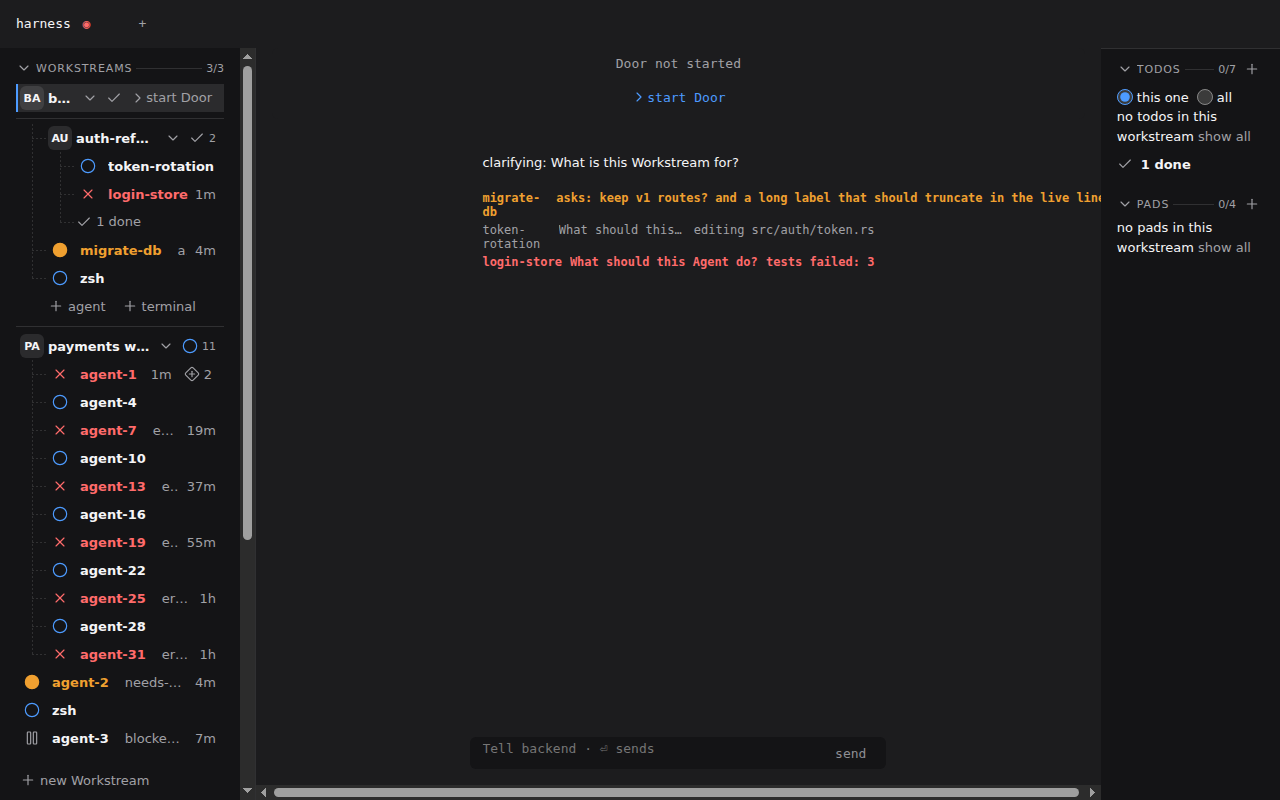
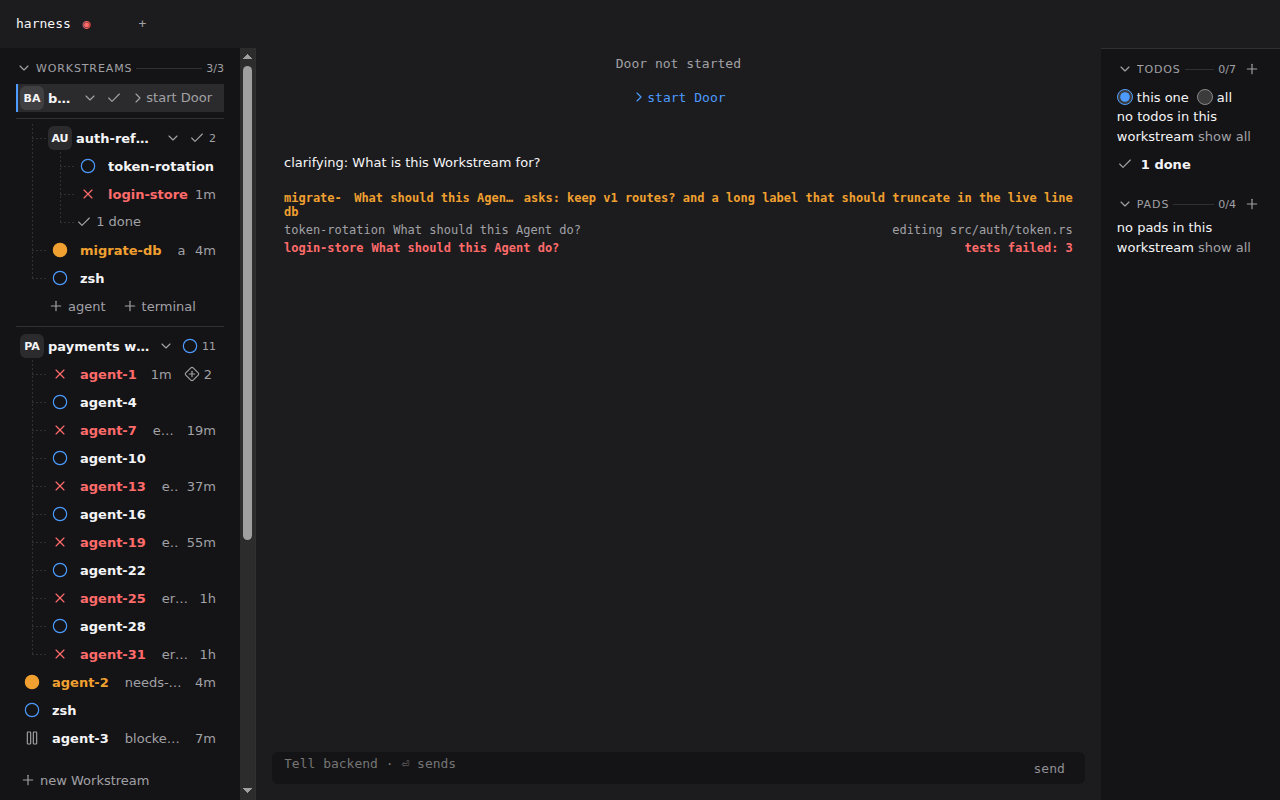
Thread text measure 80 to 120 characters (U366)
Author-Agent: builder-38132715805

Changed region(s): [[0.2188, 0.1875, 0.8438, 0.3438], [0.2188, 0.9375, 0.8438, 1.0]]

diff --git a/apps/desktop/src/testing/u366_measure.test.ts b/apps/desktop/src/testing/u366_measure.test.ts
@@ -1,0 +1,60 @@
+import { afterAll, beforeAll, describe, expect, it, vi } from "vitest";
+import { chromePath, openPage } from "./chromePage";
+import type { ChromePage } from "./chromePage";
+
+/** U366 in a real Chromium: the Thread's column grows past its old 32rem at 1600 px and fills the window at 700 px. */
+
+const found = chromePath();
+
+// A missing browser skips only off CI: on CI the claim must be checked, never silently dropped.
+const run = found || process.env["CI"] ? describe : describe.skip;
+
+let page: ChromePage;
+
+beforeAll(async () => {
+  if (!found) throw new Error("U366 needs a Chrome binary: set CHROME_PATH");
+
+  page = await openPage(found);
+}, 90_000);
+
+afterAll(async () => {
+  await page?.close();
+});
+
+const load = async (width: number, height: number) => {
+  await page.load("/harness.html?seed=thread-report", width, height);
+  await page.until(`() => document.querySelectorAll("[data-message-body]").length > 0 && Boolean(document.querySelector(".thread-composer textarea"))`);
+};
+
+type Read = { column: number; rem: number; scroll: number; client: number; body: number; probe: number };
+
+const READ = `() => {
+  const rem = parseFloat(getComputedStyle(document.documentElement).fontSize);
+  const body = document.querySelector("[data-message-body]");
+  const probe = document.createElement("div");
+  probe.style.cssText = "position:absolute;visibility:hidden;width:120ch;font-family:" + getComputedStyle(body).fontFamily + ";font-size:" + getComputedStyle(body).fontSize;
+  document.body.append(probe);
+  const read = { column: document.querySelector(".thread-column").getBoundingClientRect().width, rem, scroll: document.documentElement.scrollWidth, client: document.documentElement.clientWidth, body: body.getBoundingClientRect().width, probe: probe.getBoundingClientRect().width };
+  probe.remove();
+  return read;
+}`;
+
+run("u366 the Thread keeps a 120-character measure", () => {
+  vi.setConfig({ testTimeout: 30_000 });
+
+  it("u366_the_column_grows_at_1600_and_fills_the_window_at_700", async () => {
+    await load(1600, 800);
+
+    const wide = await page.call<Read>(READ);
+
+    expect(wide.column).toBeGreaterThan(wide.rem * 32);
+    expect(wide.body).toBeLessThanOrEqual(wide.probe + 1);
+
+    await load(700, 800);
+
+    const narrow = await page.call<Read>(READ);
+
+    expect(narrow.column).toBeLessThanOrEqual(700);
+    expect(narrow.scroll).toBeLessThanOrEqual(narrow.client);
+  });
+});

diff --git a/apps/desktop/src/testing/u196_real_daemon.test.ts b/apps/desktop/src/testing/u196_real_daemon.test.ts
@@ -6,7 +6,7 @@ import type { ChromePage } from "./chromePage";
 import { startRealDaemon } from "./realDaemonFixture";
 import type { StartedDaemon } from "./realDaemonFixture";
 
-/** U196's observer: the real `rupd` and a real Chromium; the user's 400-character Message clamps at two lines, opens whole and stays within 80ch. */
+/** U196's observer: the real `rupd` and a real Chromium; the user's 400-character Message clamps at two lines, opens whole and stays within 120ch. */
 
 const found = chromePath();
 
@@ -35,7 +35,7 @@ const BODY = "A long note from the user that goes on and on to see where its lin
 const READ = `() => {
   const body = document.querySelector("[data-message-body]");
   const probe = document.createElement("div");
-  probe.style.cssText = "position:absolute;visibility:hidden;width:80ch;font-family:" + getComputedStyle(body).fontFamily + ";font-size:" + getComputedStyle(body).fontSize;
+  probe.style.cssText = "position:absolute;visibility:hidden;width:120ch;font-family:" + getComputedStyle(body).fontFamily + ";font-size:" + getComputedStyle(body).fontSize;
   body.parentElement.append(probe);
   const limit = probe.getBoundingClientRect().width;
   probe.remove();
@@ -72,7 +72,7 @@ const openHarness = async () => {
 run("u196 on the real Daemon", () => {
   vi.setConfig({ testTimeout: 120_000 });
 
-  it("u196_a_400_character_message_shows_two_lines_and_read_more_then_every_line_within_80ch", async () => {
+  it("u196_a_400_character_message_shows_two_lines_and_read_more_then_every_line_within_120ch", async () => {
     await openHarness();
     await page.call(`() => [...document.querySelectorAll("button")].find((each) => each.textContent.includes("new Workstream")).click()`);
     await page.until(`() => { const door = [...document.querySelectorAll("button")].find((each) => /start Door/.test(each.textContent)); door?.click(); return Boolean(document.querySelector('[data-thread-input]')); }`);

diff --git a/apps/desktop/src/testing/u196_measure.test.ts b/apps/desktop/src/testing/u196_measure.test.ts
@@ -21,11 +21,11 @@ afterAll(async () => {
   await page?.close();
 });
 
-/** Page-side: the Thread's body elements with their rendered width, line count and control, and the width of `80ch` in the body's own font. */
+/** Page-side: the Thread's body elements with their rendered width, line count and control, and the width of `120ch` in the body's own font. */
 const READ = `() => {
   const probe = document.createElement("div");
   const first = document.querySelector("[data-message-body]");
-  probe.style.cssText = "position:absolute;visibility:hidden;width:80ch;font-family:" + getComputedStyle(first).fontFamily + ";font-size:" + getComputedStyle(first).fontSize;
+  probe.style.cssText = "position:absolute;visibility:hidden;width:120ch;font-family:" + getComputedStyle(first).fontFamily + ";font-size:" + getComputedStyle(first).fontSize;
   first.parentElement.append(probe);
   const limit = probe.getBoundingClientRect().width;
   probe.remove();
@@ -52,15 +52,15 @@ const load = async (width: number, height: number) => {
 
 const read = () => page.call<Row[]>(READ);
 
-run("u196 the Thread keeps an 80-character measure and the user's Messages clamp at two lines", () => {
+run("u196 the Thread keeps an 120-character measure and the user's Messages clamp at two lines", () => {
   vi.setConfig({ testTimeout: 30_000 });
 
   for (const [width, height] of [[1280, 800], [700, 800]] as const) {
-    it(`u196_a_body_never_exceeds_80ch_at_${width}x${height}`, async () => {
+    it(`u196_a_body_never_exceeds_120ch_at_${width}x${height}`, async () => {
       await load(width, height);
 
       for (const row of await read()) {
-        expect(row.maxWidth).toMatch(/^\d+(\.\d+)?px$|^80ch$/);
+        expect(row.maxWidth).toMatch(/^\d+(\.\d+)?px$|^120ch$/);
         expect(row.width).toBeLessThanOrEqual(row.limit + 1);
       }
 

diff --git a/apps/desktop/src/testing/u197_column.test.ts b/apps/desktop/src/testing/u197_column.test.ts
@@ -23,13 +23,13 @@ afterAll(async () => {
 
 const ROWS = ".thread-header .thread-ask, .thread-header .thread-limits, .thread-sender, .thread-body, .thread-card-body, .thread-card-answer, .thread-composer textarea";
 
-/** Page-side: the column, each row's first rendered glyph x and widest rendered line, and the width of `80ch` in the row's font. */
+/** Page-side: the column, each row's first rendered glyph x and widest rendered line, and the width of `120ch` in the row's font. */
 const READ = `() => {
   const column = document.querySelector(".thread-column").getBoundingClientRect();
   const rows = [...document.querySelectorAll(${JSON.stringify(ROWS)})].map((row) => {
     const style = getComputedStyle(row);
     const probe = document.createElement("div");
-    probe.style.cssText = "position:absolute;visibility:hidden;width:80ch;font-family:" + style.fontFamily + ";font-size:" + style.fontSize;
+    probe.style.cssText = "position:absolute;visibility:hidden;width:120ch;font-family:" + style.fontFamily + ";font-size:" + style.fontSize;
     document.body.append(probe);
     const limit = probe.getBoundingClientRect().width;
     probe.remove();
@@ -45,7 +45,7 @@ const READ = `() => {
       lines: new Set(rects.map((rect) => Math.round(rect.top))).size,
     };
   });
-  return { column: { left: column.left, width: column.width, measure: parseFloat(getComputedStyle(document.documentElement).fontSize) * 32 }, rows };
+  return { column: { left: column.left, width: column.width, measure: parseFloat(getComputedStyle(document.documentElement).fontSize) * 72 }, rows };
 }`;
 
 type Read = { column: { left: number; width: number; measure: number }; rows: { name: string; x: number; widest: number; limit: number; lines: number }[] };

diff --git a/apps/desktop/src/thread/u197_one_column.test.tsx b/apps/desktop/src/thread/u197_one_column.test.tsx
@@ -32,7 +32,7 @@ afterEach(() => {
 });
 
 describe("u197 the Thread is one page in one column", () => {
-  // The one-x and 80-character clauses need layout: `src/testing/u197_column.test.ts` asserts them in a headless browser.
+  // The one-x and 120-character clauses need layout: `src/testing/u197_column.test.ts` asserts them in a headless browser.
   it.each(WIDTHS)("u197_every_row_sits_in_the_column_with_no_inset_of_its_own at %i", async (width) => {
     await mountReport(width);
 
@@ -217,11 +217,11 @@ describe("u197 the Thread is one page in one column", () => {
     columnWide(400);
     expect(runChecks().D11, JSON.stringify(runChecks().D11)).toMatchObject({ status: "pass" });
 
-    body.textContent = "x".repeat(81);
+    body.textContent = "x".repeat(121);
     expect(runChecks().D11).toMatchObject({ status: "fail" });
 
     body.textContent = "short";
-    columnWide(900);
+    columnWide(1300);
     expect(runChecks().D11).toMatchObject({ status: "fail" });
 
     columnWide(400);

diff --git a/apps/desktop/src/testing/checks.ts b/apps/desktop/src/testing/checks.ts
@@ -371,11 +371,11 @@ const d9 = (page: Page): Measure => {
   });
 };
 
-// D11: the Thread's column is at most `--measure` wide, no line holds more than 80 characters, and every row's text starts at one x within 1 px. A screen with no Thread has nothing to measure and passes.
+// D11: the Thread's column is at most `--measure` wide, no line holds more than 120 characters, and every row's text starts at one x within 1 px. A screen with no Thread has nothing to measure and passes.
 
 const THREAD_ROWS = ".thread-header .thread-ask, .thread-header .thread-limits, .thread-now-line, .thread-sender, .thread-body, .thread-card-body, .thread-card-answer, .thread-card-meta, .thread-composer textarea, .thread-answering";
 
-const MAX_LINE = 80;
+const MAX_LINE = 120;
 
 const d11 = (page: Page): Measure => {
   const columns = [...page.doc.querySelectorAll<HTMLElement>(".thread-column")].filter((el) => page.elements.includes(el));

diff --git a/apps/desktop/src/thread/styles.css b/apps/desktop/src/thread/styles.css
@@ -106,10 +106,10 @@
   overflow-wrap: anywhere;
 }
 
-/* U196: the Thread's maximum measure is 80ch; a user's body shows two lines until `read more`. */
+/* U196: the Thread's maximum measure is 120ch; a user's body shows two lines until `read more`. */
 .thread-body,
 .thread-card-body {
-  max-width: 80ch;
+  max-width: 120ch;
 }
 
 .thread-clamped {

diff --git a/apps/desktop/src/tokens.css b/apps/desktop/src/tokens.css
@@ -40,7 +40,7 @@
   --space-4: 16px;
   --space-5: 24px;
   --space-6: 32px;
-  --measure: 32rem;
+  --measure: 72rem;
 }
 
 @media (prefers-color-scheme: dark) {

diff --git a/docs/design-system.md b/docs/design-system.md
@@ -49,7 +49,7 @@ Static interface typography uses the listed type steps. U102’s user-adjustable
 
 Pad prose uses `--text-title` (15 px). Its `--text-pad-subheading` (20 px) and `--text-pad-heading` (24 px) steps apply only to rendered and formatted Pad headings, in both colour schemes; source and code stay mono at `--text-body`. A Pad's reading and editing views use the same steps.
 
-Space: `--space-1` to `--space-6` are 4, 8, 12, 16, 24, 32 px. A Rail row is 28 px high. `--measure` is `32rem`, the Thread's column width (D11).
+Space: `--space-1` to `--space-6` are 4, 8, 12, 16, 24, 32 px. A Rail row is 28 px high. `--measure` is `72rem`, the Thread's column width (D11).
 
 Mono is for the Terminal, paths, ids and code. Every other word is `--font-ui`.
 
@@ -126,7 +126,7 @@ Each check is measured from computed style and the DOM of the running App, never
 | D8 | no border is wider than 1 px or any colour but `--hairline`; only the Drawer has a shadow (a bubble has none); no `backdrop-filter` element contains another | U134 |
 | D9 | each duration is within 25% of `docs/motion.md`, and under `prefers-reduced-motion` all but the instant changes are 0 | U5, U135 |
 | D10 | D1 to D9 hold in both colour schemes, in `prefers-contrast: more`, and at 700 by 800 | U135 |
-| D11 | in the Thread, the column is at most `--measure` (`32rem`) wide, no rendered line holds more than 80 characters, and every row's text starts at one x within 1 px, at 700 by 800 and at 1280 by 800 | U197 |
+| D11 | in the Thread, the column is at most `--measure` (`72rem`) wide, no rendered line holds more than 120 characters, and every row's text starts at one x within 1 px, at 700 by 800 and at 1280 by 800 | U197 |
 | D12 | in each of the Shelf's `todos` and `pads` lists, the Glyphs' left x are within 1 px of one another, so are the first words', and every line after a row's first starts at its title's left x within 1 px | U360 |
 | D13 | in the Shelf, every text node is `--font-ui` unless it is an id, a path or code | U360 |
 | D14 | in the Shelf, no row has a fill, border or shadow at rest; the gaps between rows, from a head to its first row and between the two lists are space steps, equal across the lists; no title or name shows more than two lines or overflows its row | U360 |
